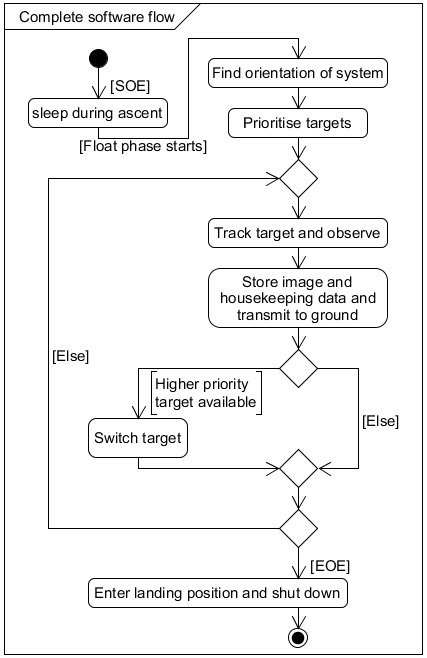
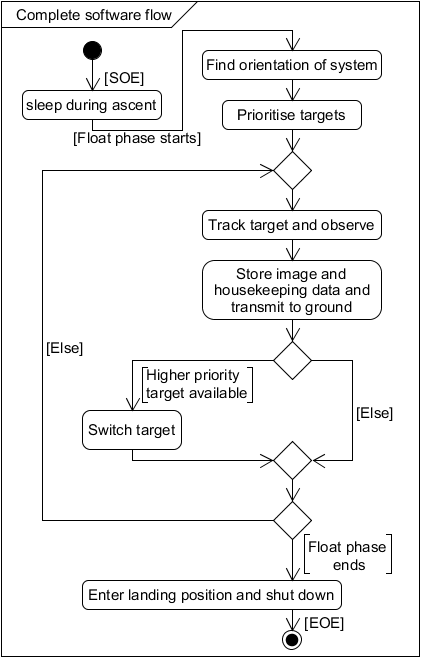
Updated 4.8 for SED 1.1
Updated design diagrams, added more detail on data storage, and cleared up some missunderstandings.

diff --git a/4-experiment-design/4.8-software-design.tex b/4-experiment-design/4.8-software-design.tex
@@ -13,11 +13,11 @@ The purpose of the On-Board Software consists of:
 	\item When possible, send images and housekeeping data to ground station.
 \end{itemize}
 
-
+\hl{The software is designed such that it can control the experiment autonomously throughout the whole experiment process but also enable control from ground through telecommands.}
 
 \subsubsection{Design}
 
-\paragraph{a)} Process Overview\\
+\paragraph{a)} Process Overview
 
 \begin{figure}[H]
 	\centering
@@ -28,29 +28,33 @@ The purpose of the On-Board Software consists of:
 
 All external components connected to the On-Board Computer and their interface are displayed in figure \ref{fig:software-process-overview}.
 
-\paragraph{b)} General and safety related concepts\\
+\paragraph{b)} General and safety related concepts
 
 To ensure that the software is not erroneous rigorous testing will be done during development and after completion. A watchdog timer will be used to avoid software freezing. This timer will reset the On-Board Computer if it is not itself reset by the software within a certain period.
 
-\paragraph{c)} Interfaces\\
+\paragraph{c)} Interfaces
 
 If connection to ground is available, images compressed with a lossless compression will be sent down over the E-link over the course of the experiment. If the storage were to fail on touchdown for any reason, this would mean that not all data is lost.
 
-
 \input{4-experiment-design/tables/software-interfaces.tex}
 
+\paragraph{d)} Data acquisition and storage
 
-\paragraph{d)} Data acquisition and storage\\
+The main bulk of data handled is the images taken by the camera\hl{s}. Housekeeping data such as positioning, camera direction, time, etc will also be stored along with the images. \hl{The On-Board Computer has one SD card used for the OS and temporary storage. For the external data storage two SD cards are used for redundancy purposes. All data shall be saved on these external SD-cards.}
 
-The main bulk of data handled is the images taken by the camera. Housekeeping data such as positioning, camera direction, time, etc will also be stored along with the images.
+As the \hl{NIR} camera has a resolution of $5496 * 3672$ and a colour depth of 12\,bits, the raw image size will be 30.27\,MB. For a 4\,hour float phase and an exposure time of 30\,s a total of  14.53\,GB is required in on-board data storage for the images. \hl{An exposure time of 30\,s can't be guaranteed e.g. due to movements of the gondola. If the exposure time is dropped to 10\,s the total amount of data for continuous image capturing is  43.6\,GB.}
 
-As the camera has a resolution of $5496 * 3672$ and a colour depth of 12\,bits, the raw image size will be 30.27\,MB. For a 4\,hour float phase and an exposure time of 30\,s a total of  14.53\,GB is required in on-board data storage for the images.
+\hl{The guiding camera has a resolution of $1936 * 1096$ and a colour depth of 12\,bits leading to a raw image size of 3.18\,MB. If the guiding camera is sampled every 10\,seconds the total data required for the images is 4.58\,GB.}
+
+\hl{As the housekeeping data is negligible in size compared to the images and as the sanity images are only taken on demand, an SD-card size of 64\,GB will be sufficient for all data storage.}
 
 With a maximum of 1\,Mbit per second data transfer rate to ground it takes at least 145.5\,s to transfer one image compressed losslessly to 60\,\% of original size. This means that with little down time between observations and for most exposure times, not all images can be transmitted to ground.
 
-\paragraph{e)} Process Flow\\
+\paragraph{e)} Process Flow
 
-Pre-launch tests shall be conducted to ensure that all systems work as expected. Afterwards the system shall enter a sleep mode with the camera in a safe launch position. When the float phase is reached, the system will wake. After wake-up the system shall find its orientation and the position of the sun. Finally tracking and observation can start.
+Pre-launch tests shall be conducted to ensure that all systems work as expected. Afterwards the system shall enter a sleep mode\hl{, a low activity state,} with the camera in a safe launch position. \hl{During the ascent the thermal control system shall be running to ensure that all components of the experiment are within nominal temperature ranges.}
+
+When the float phase is reached, the system will wake. \hl{This is done by tracking the altitude of the gondola using GPS data.} After wake-up the system shall find its orientation and the position of the sun. Finally tracking and observation can start.
 
 Astronomical targets are prioritised. The software shall track and observe the highest priority target within the field of view with varying camera settings until one of the following events happen:
 
@@ -67,23 +71,23 @@ At the end of the floating phase the camera shall be oriented in a landing posit
 \begin{figure}[H]
     \centering
     \includegraphics[width=.5\textwidth]{4-experiment-design/img/software/activity-diagram.png}
-    \caption{Activity diagram describing the complete software flow.}
+    \caption{Activity diagram describing the complete software flow. \hl{Here SOE refers to when the software starts, i.e. on the launch pad, and EOE refers to when it shuts down.} \hl{[updated figure]}}
     \label{fig:software-activity-diagram}
 \end{figure}
 
 \begin{figure}[H]
 	\centering
-	\includegraphics[width=.55\textwidth]{4-experiment-design/img/software/state-diagram.png}
-	\caption{State diagram for On-Board Software}
+	\includegraphics[width=.5\textwidth]{4-experiment-design/img/software/state-diagram.png}
+	\caption{State diagram for On-Board Software. \hl{[updated figure]}}
 	\label{fig:software-state-diagram}
 \end{figure}
 
-\paragraph{f)} Modularisation and pseudo code\\
+\paragraph{f)} Modularisation and pseudo code
 
 \begin{figure}[H]
 	\centering
 	\includegraphics[width=\textwidth]{4-experiment-design/img/software/composition-tree.png}
-	\caption{Composition tree of On-Board Software.}
+	\caption{Composition tree of On-Board Software. \hl{[updated figure]}}
 	\label{fig:software-composition-tree}
 \end{figure}
 
@@ -91,57 +95,65 @@ Figure \ref{fig:software-composition-tree} shows how the complete software is mo
 
 \begin{itemize}
 
-	\item Img Processing: Image processing, parent
+	\item Camera: Parent
 		\begin{itemize}
-			\item Image Handler: Module processing and storing images taken by camera.
-			\item Data Queue: Buffer to hold camera data until Handler is ready
+			\item Camera Control: Module responsible for selecting target, camera settings and capturing images.
+			\item Guiding Camera: Communication link to the guiding camera.
+			\item NIR Camera: Communication link to the NIR camera.
+			\item Sanity Camera: Communication link to the sanity camera.
 		\end{itemize}
 
-	\item Thermal: Module responsible for active thermal control
+	\item Command: Module responsible for handling incoming commands from ground.
 
-	\item Watchdog: Timer to reset external watchdog.
+	\item \hl{Data Storage: Module providing an interface to store data to the external SD-cards.}
 
-	\item Tracking: parent
+	\item E-link: Module responsible for communications over the E-link interface.
+
+	\item I2C: Module responsible for communications over the I2C bus.
+
+	\item Img Processing: Image processing, parent
 		\begin{itemize}
-			\item Current Target: Module holding the current target to be observed.
-			\item Controller: Module responsible for keeping camera on target.
-			\item Target Choosing: Module responsible for keeping track of target prioritisation.
+			\item Data Queue: Buffer to hold camera data until Handler is ready
+			\item Image Handler: Module processing and storing images taken by camera.
 		\end{itemize}
 
 	\item Init: Module initialising each component.
 
 	\item Mode: Module responsible for the current state of the software.
 
-	\item Telemetry: Module responsible for sending telemetry to ground.
-
-	\item Sensors: parent
+	\item Sensors: Parent
 		\begin{itemize}
-			\item Temperature: Thermal sensors.
 			\item Orientation: Module keeping track of orientation and location.
 			\item Sun: Module keeping track of position of the sun.
+			\item \hl{Sensor Poller: Module responsible for polling sensors.}
+			\item Temperature: Thermal sensors.
 		\end{itemize}
-
-	\item E-link: Module responsible for communications over the E-link interface.
-
-	\item I2C: Module responsible for communications over the I2C bus.
 
 	\item SPI: Module responsible for communications over the SPI bus.
 
-	\item Camera: Parent
+	\item Telemetry: \hl{Parent}
 		\begin{itemize}
-			\item Camera Control: Module responsible for selecting target, camera settings and capturing images.
-			\item NIR Camera: Communication link to the NIR camera.
-			\item Sanity Camera: Communication link to the sanity camera.
-			\item Guiding Camera: Communication link to the guiding camera.
+			\item \hl{Downlink: Module responsible for sending telemetry to ground.}
+			\item \hl{Downlink Queue: Buffer to hold telemetry messages.}
 		\end{itemize}
 
-	\item Command: Module responsible for handling incoming commands from ground.
+	\item Thermal: Module responsible for active thermal control
+
+	\item Tracking: Parent
+		\begin{itemize}
+			\item Current Target: Module holding the current target to be observed.
+			\item Controller: Module responsible for keeping camera on target.
+			\item \hl{Gimbal: Module providing an interface to the gimbal motors.}
+			\item Target Choosing: Module responsible for keeping track of target prioritisation.
+		\end{itemize}
+
+	\item Watchdog: Timer to reset external watchdog.
 
 \end{itemize}
 
 \subsubsection{Implementation}
 
-The code for the On-Board Software shall be implemented in C. An operating system will be used to enable the modularisation required. Additional libraries may be needed.
+The code for the On-Board Software shall be implemented in C. An operating system will be used to enable the modularisation required. \hl{The chosen operating system is Linux with the Preempt RT kernel patch.} Additional libraries\hl{, such as the ASI SDK library used for controlling the cameras, will} \st{may} be needed.
 
 \subsubsection{Control system}
 The main task of the control system is selecting and tracking the astronomical targets and stabilising the telescope during exposure. Other tasks include minor tasks like the thermal control of the CMOS sensor and the electronics box as well as control of the actuators.

diff --git a/8-abbreviations-and-references/8.1-abbreviations.tex b/8-abbreviations-and-references/8.1-abbreviations.tex
@@ -109,6 +109,7 @@
              RJ45        & Registered Jack 45 \\
              RTOS        & Real-time operating system\\
              SD          & Secure Digital (Storage) \\
+             SDK         & Software Development Kit\\
              SDP         & Serial Data Pin\\
              SED         & Student Experiment Documentation \\
              SNR         & Signal-to-noise Ratio\\
